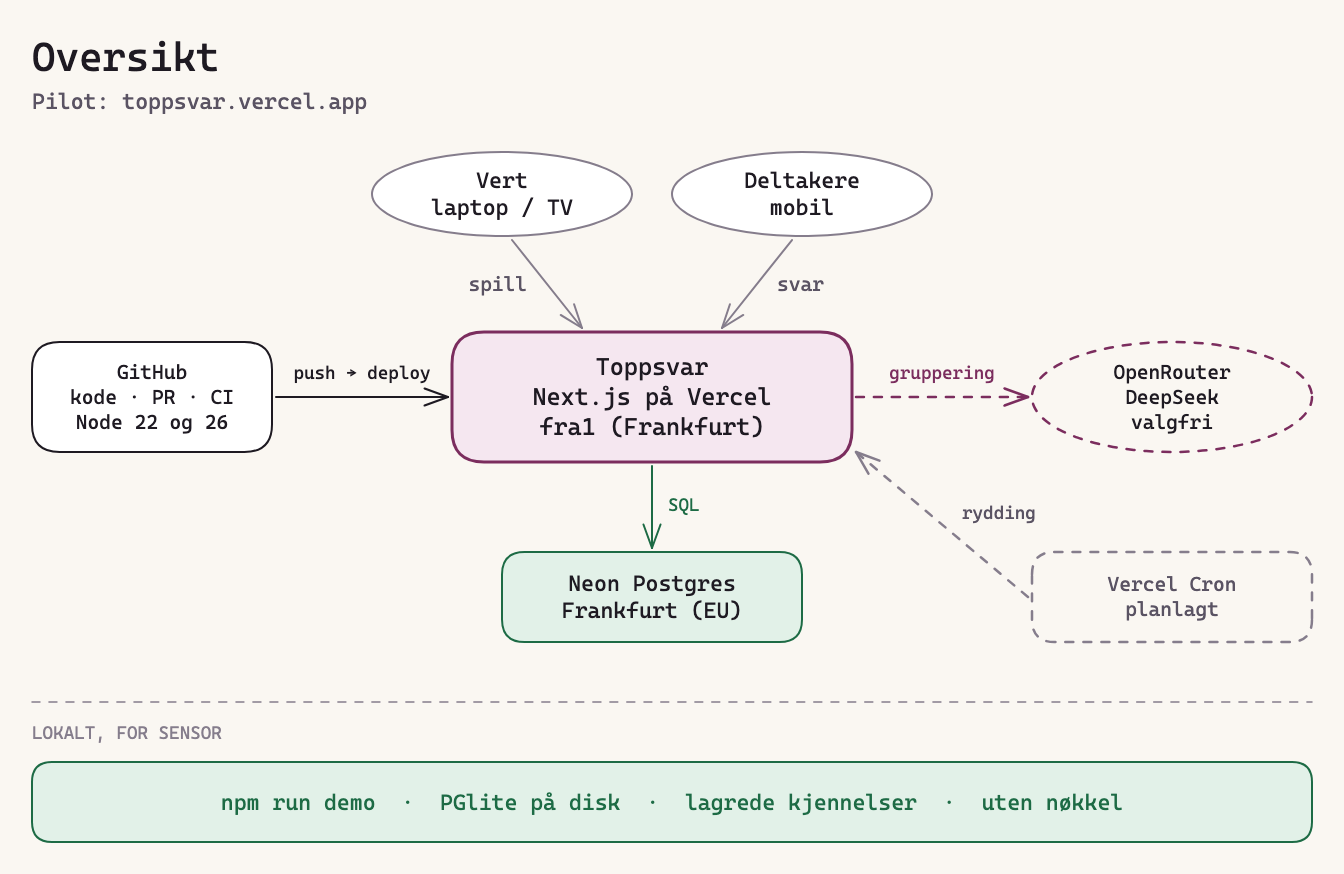
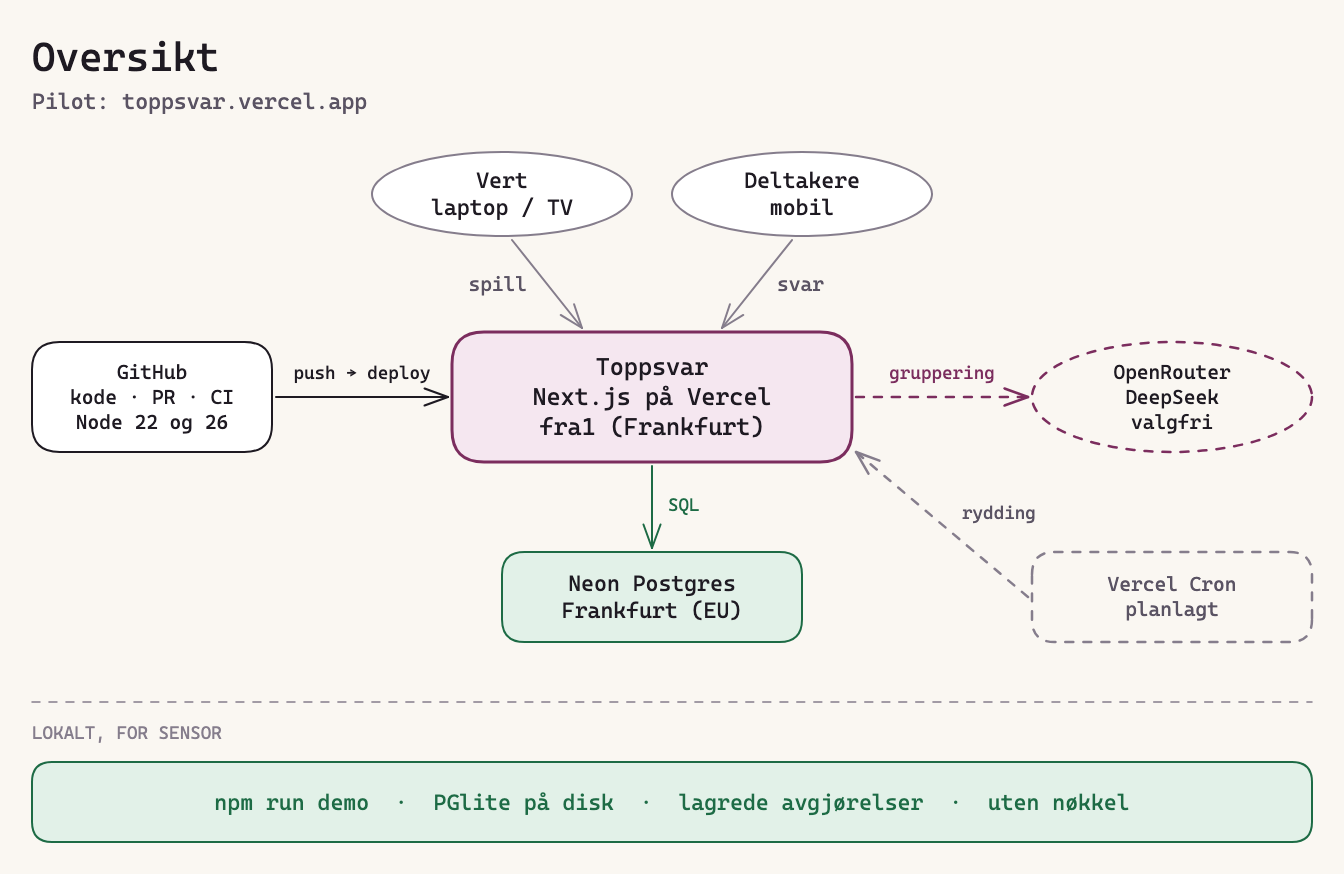
Rett utdatert dokumentasjon etter gjennomgangen av epic 7
TRACE, arkitekturryggraden og en kommentar i demo-testen sa fortsatt at
demokjennelsen var håndskrevet, selv om den er tatt opp live med
deepseek/deepseek-v4.1-flash. AD-14 har fått en endringsnote om det.
Skriptlista og CLI-raden i ryggraden nevner nå db:dump og seed:sizing,
og at de med vilje ikke leser noen env-fil. README nevner seed:sizing i
mappetabellen og sier hva som faktisk starter slettingen.

Ordet for lagrede rulings er nå «avgjørelser» overalt, som i båndet og i
EXPERIENCE.md. README og oversiktsdiagrammet sa «kjennelser».

diff --git a/tests/e2e/demo.spec.ts b/tests/e2e/demo.spec.ts
@@ -51,7 +51,7 @@ test.describe("on the demo server (npm run demo)", () => {
     await slow(page).toHaveURL(`${gamePath}/gjennomgang`);
     await slow(page.getByText(BAND)).toBeVisible();
 
-    // The hand-written ruling joins near-synonyms, which one Group per Answer never would.
+    // The recorded ruling joins near-synonyms, which one Group per Answer never would.
     const kortstokk = page
       .locator("li", { has: page.locator("h4", { hasText: "Kortstokk" }) })
       .first();

diff --git a/.docs/planning-artifacts/architecture/architecture-Toppsvar-2026-11-21/ARCHITECTURE-SPINE.md b/.docs/planning-artifacts/architecture/architecture-Toppsvar-2026-11-21/ARCHITECTURE-SPINE.md
@@ -306,6 +306,7 @@ Stage 2 adds `match({ question, guess, labels }, signal)` to the same interface.
   - **In the DB.** A Game's stored ruling is its materialised Groups plus `grouping_result(question_id, source: judge | replay | fallback, prompt_version, normalize_version, model_id, judge_calls, uncovered_items, fell_back, fallback_reason)`.
 - *Amended in Story 4.4:* `npm run judge:record <input.json> <output.json>` reads a JSON array of `{ question, answers }`, makes one partition per entry (up to two requests with the retry) over its sorted distinct non-empty normalised answers, and writes the rulings with the result's `model` and `promptVersion`. It refuses before any call without `OPENROUTER_API_KEY` or for an output path outside `.data/` other than the two fixtures, and a `JudgeError` writes nothing. `npm run judge:smoke` makes one live call on a fixed synthetic Question and prints model, latency, calls, usage and the groups; without a key it prints `skipped: no OPENROUTER_API_KEY` and exits 0. Neither is part of the test scripts or CI.
 - *Amended in Story 7.1:* `data/rulings/demo.json` is hand-written, since there was no live key when the demo was built. It has the recorder's exact shape, with `model` and `promptVersion` both `"hand-written"` so nothing claims a model made it. `npm run judge:record -- <input.json> data/rulings/demo.json` (input: `[{ question, answers }]` from `src/server/demo.ts`), then `npx prettier --write data/rulings/demo.json`, may replace it; `demo-replay.test.ts` then checks the recorded partition still covers every item.
+- *Amended after the live recording (2026-11-23):* `data/rulings/demo.json` was recorded live with `judge:record`, so its rulings carry `model: "deepseek/deepseek-v4.1-flash"` and `promptVersion: "1"`, not `"hand-written"`. `demo-replay.test.ts` asserts that model and pins the full partition, so a new recording means updating the test.
 - *Amended in Story 7.2:* `data/rulings/protoqa-dev.json` is committed as a marked placeholder, since there was no live key when the evaluation was built. It has the recorder's exact shape, one ruling per ProtoQA Question over the same items `judge:eval` builds, with every item its own cluster, `promptVersion: "placeholder"` and `model: "placeholder: every item alone (no Judge)"`. Its figure is the no-Judge baseline (the FR-17 fallback). `npm run judge:eval -- --live` replaces it (or `judge:record` with an input built from `parseLabelled`'s items, never from all raw answers, since replay would ignore the extra items and the figure would silently come from a different Judge input), then `npx prettier --write data/rulings/protoqa-dev.json`, and the pinned figures and version strings in `judge-eval.test.ts` are updated. Replay also loads it, so it ships with the other rulings.
 - *Amended in Story 7.2, after the live recording (2026-11-23):* `judge:eval --live` records every Question it can. A Question whose call fails (`JudgeError`) is stored as one Group per item, with `promptVersion` the current one and `model: "fallback: <reason>"`, so the offline replay reproduces the figure the app would give (FR-17) and the `Model` line names the fallback. Only when every Question fails is nothing written. The calls a failed Question made count in the live calls per Question. The version warning ignores `fallback:` models.
 
@@ -410,7 +411,7 @@ Stage 2 adds `match({ question, guess, labels }, signal)` to the same interface.
   - **Reading.** The app reads only the variables below, through `src/server/env.ts` (zod-validated).
   - **Template.** `.env.example` lists every variable with a safe default or an empty value. A test checks that its keys equal those in `env.ts`.
   - **Git.** `.env*` files (except `.env.example`), `.data/`, `.next/` and `node_modules/` are gitignored.
-  - **CLI.** `src/cli` runs as `tsx --conditions=react-server --env-file-if-exists=.env.local`. *Amended in Story 4.4:* the `judge:*` scripts also read `.env` first (`--env-file-if-exists=.env --env-file-if-exists=.env.local`), and `no-console` is off in `src/cli`.
+  - **CLI.** `src/cli` runs as `tsx --conditions=react-server --env-file-if-exists=.env.local`. *Amended in Story 4.4:* the `judge:*` scripts also read `.env` first (`--env-file-if-exists=.env --env-file-if-exists=.env.local`), and `no-console` is off in `src/cli`. *Amended in Story 7.3:* `db:dump` and `seed:sizing` load no env file on purpose, so a database URL in `.env.local` can never be dumped or seeded by mistake.
 
 | Variable | Default | Purpose |
 | --- | --- | --- |
@@ -513,7 +514,7 @@ There are no backups beyond Neon's short history, and the pilot database is dele
 | Logging | Only through `src/server/log.ts` (ESLint `no-console` elsewhere). It accepts `{ module, op, code, sqlstate }`, never request objects, arguments or `error.message`. |
 | Transactions | A multi-row change is one transaction, opened by the entry point. The Judge is never called inside one. |
 | Assets | Fonts come from npm packages or `next/font/local`, never `next/font/google` or a CDN, so builds and tests work offline. Nothing names or imitates the TV show (PRD §6.3). |
-| Scripts | `dev`, `demo`, `build`, `start`, `lint`, `format`, `format:check`, `typecheck`, `test`, `test:e2e`, `db:generate`, `db:migrate`, `judge:eval`, `judge:record`, `judge:smoke`. README, CI and Playwright use these names only. |
+| Scripts | `dev`, `demo`, `build`, `start`, `lint`, `format`, `format:check`, `typecheck`, `test`, `test:e2e`, `db:generate`, `db:migrate`, `judge:eval`, `judge:record`, `judge:smoke`, and since Story 7.3 `db:dump` and `seed:sizing`. README, CI and Playwright use these names only. |
 | Style | ESLint flat config (`eslint-config-next`, `typescript-eslint`, `eslint-config-prettier`) and Prettier defaults, over `src`, `tests` and the root config files. Ignored: `_bmad .claude wiki .docs prompting scripts drizzle .idea .next .data .logs`. No commented-out code. |
 | Delivery | The README states the anonymity limits that AD-7 to AD-10, AD-13 and AD-24 name, and the outcome of the PRD §6.5 slip list. One PR per epic. A departure from this spine amends it in the same PR. Details are in `delivery-notes.md`. |
 

diff --git a/README.md b/README.md
@@ -114,7 +114,8 @@ Ingen kan se hvem som skrev hvilket svar, heller ikke verten. Svarene kan bli se
 ekstern KI-tjeneste for gruppering. Begge deler står øverst i svarskjemaet.
 
 Spill slettes 30 dager etter at de er spilt, ellers 90 dager etter siste endring. Slettingen
-kjører bare mens appen kjører. Pilotdatabasen slettes når emnet er over.
+kjører når en vert åpner spillsidene (høyst én gang i timen), eller fra Cron når `CRON_SECRET`
+er satt. Pilotdatabasen slettes når emnet er over.
 
 <details>
 <summary>Grensene: hvem kan se hva</summary>
@@ -210,7 +211,7 @@ npm run demo                # skriver ut innloggingen
 
 Åpne <http://localhost:3000/logg-inn> og logg inn med `demo@toppsvar.test` og `demo-passord`.
 Demospillet er oppdiktet og har seks svarsett. Steng innsamlingen, så grupperer dommeren fra
-lagrede kjennelser. `.data/demo` lages på nytt ved hver start. `npm run dev` starter tomt i
+lagrede avgjørelser. `.data/demo` lages på nytt ved hver start. `npm run dev` starter tomt i
 `.data/local`.
 
 **Appen kjører uten noen nøkkel.** Variablene står i [`.env.example`](.env.example). Kopier den
@@ -235,7 +236,7 @@ til `.env.local` for å endre noe.
 
 </details>
 
-**Uten nøkkel** bruker dommeren lagrede kjennelser i `data/rulings/`. I egne spill blir hvert
+**Uten nøkkel** bruker dommeren lagrede avgjørelser i `data/rulings/`. I egne spill blir hvert
 ulike svar en egen gruppe (`NO_KEY`), og verten slår sammen for hånd.
 
 **Med nøkkel** (`OPENROUTER_API_KEY` i `.env` eller `.env.local`) grupperer dommeren live
@@ -248,7 +249,7 @@ overstyrer ikke), så sjekk `echo $OPENROUTER_API_KEY` først.
 
 ```bash
 npm run judge:smoke         # ett live kall: modell, ventetid, tokens og grupper; hopper over uten nøkkel
-npm run judge:record -- inn.json .data/rulings/ut.json   # tar opp kjennelser (AD-14); bare under .data/ eller data/rulings/demo.json og protoqa-dev.json
+npm run judge:record -- inn.json .data/rulings/ut.json   # tar opp avgjørelser (AD-14); bare under .data/ eller data/rulings/demo.json og protoqa-dev.json
 ```
 
 </details>
@@ -259,7 +260,7 @@ Testene trenger verken nøkkel eller nettverk:
 npm test                          # Vitest: enhets- og integrasjonstester
 npx playwright install chromium   # én gang
 npm run test:e2e                  # Playwright, på port 3100 og 3101
-npm run judge:eval                # dommeren mot ProtoQA, fra lagrede kjennelser
+npm run judge:eval                # dommeren mot ProtoQA, fra lagrede avgjørelser
 ```
 
 Stopp `npm run dev` og `npm run demo` før e2e: Next tillater bare én `next dev` per repo.
@@ -319,9 +320,9 @@ beslutningslogg.
 | `src/app`, `src/components` | Sidene, rutene og komponentene |
 | `src/server` | Moduler med databasetilgang, og dommeren |
 | `src/lib` | Ren logikk og grenser, delt av resten |
-| `src/cli` | Skriptene bak `demo`, `judge:*` og `db:*` |
+| `src/cli` | Skriptene bak `demo`, `seed:sizing`, `judge:*` og `db:*` |
 | `tests/` | Testene, [sporingen](tests/TRACE.md) og [de manuelle sjekkene](tests/manual/checklist.md) |
-| `data/` | ProtoQA-data og lagrede kjennelser |
+| `data/` | ProtoQA-data og lagrede avgjørelser |
 | `drizzle/` | Migrasjonene |
 | `docs-assets/` | Skjermbilder og diagrammer |
 | [`.docs/`](.docs/) | BMAD-artefaktene: brief, PRD, UX, arkitektur, epics og én spesifikasjon per historie |

diff --git a/tests/TRACE.md b/tests/TRACE.md
@@ -377,7 +377,7 @@ Full Stage 1 without a key.
 
 Demo mode.
 
-- `tests/integration/demo-replay.test.ts`: the demo seed (`src/server/demo.ts`, through `auth.createHost`, `games.create`, `questions.save`, `collection.createInviteLinks` and `collection.submit`) gives a Host with the demo email and one _collecting_ Game with eight links and six Answer sets; `collection.close` and `grouping.run` with `JUDGE_PROVIDER=replay` give every Question `source = replay`, `uncovered_items = 0`, `fell_back = false`, no fallback reason, zero Judge calls and model `hand-written`, every Group of origin `judge`, the Game _in_review_, and `fetch` is never called; each Question's ruling in `data/rulings/demo.json` has exactly the sorted distinct normalised seeded Answers as items, and its Group count equals the ruling's distinct assignments; checked to fail when one item is removed from `data/rulings/demo.json` (Story 7.1, AC2).
+- `tests/integration/demo-replay.test.ts`: the demo seed (`src/server/demo.ts`, through `auth.createHost`, `games.create`, `questions.save`, `collection.createInviteLinks` and `collection.submit`) gives a Host with the demo email and one _collecting_ Game with eight links and six Answer sets; `collection.close` and `grouping.run` with `JUDGE_PROVIDER=replay` give every Question `source = replay`, `uncovered_items = 0`, `fell_back = false`, no fallback reason, zero Judge calls and the recorded model `deepseek/deepseek-v4.1-flash`, the full stored partition of every Question pinned, every Group of origin `judge`, the Game _in_review_, and `fetch` is never called; each Question's ruling in `data/rulings/demo.json` has exactly the sorted distinct normalised seeded Answers as items, and its Group count equals the ruling's distinct assignments; checked to fail when one item is removed from `data/rulings/demo.json` (Story 7.1, AC2).
 - `tests/e2e/demo.spec.ts`, on the demo server (`npm run demo` on 3101): `/` and `/logg-inn` show the demo login, "Fyll inn demobrukeren" fills email and password and logs in; "Mine spill", the demo Game page ("6 av 8 svar mottatt") and Review show the band sentence; closing the demo Game reaches _Til gjennomgang_, and Review groups "Kortstokk" with "Kortspill", shows no "Manuell" and no fallback Notice; no serious axe violation on `/logg-inn` and Review; after marking all three Questions, locking the Board and starting play, the band is hidden under the play stage. On the normal server (3100), `/` and `/logg-inn` show no demo login and "Mine spill" no band (Story 7.1, AC1, AC3).
 - `tests/manual/checklist.md` D1: the demo content is invented and nothing in it derives from `.idea/` (Story 7.1, AC4).
 - `README.md`, section "Utvikling": `git clone`, `npm install`, `npm run demo` and the login `src/cli/demo.ts` prints from `DEMO_HOST` (Story 7.4, AC1); the fresh-clone run is F1 in `tests/manual/checklist.md`.
